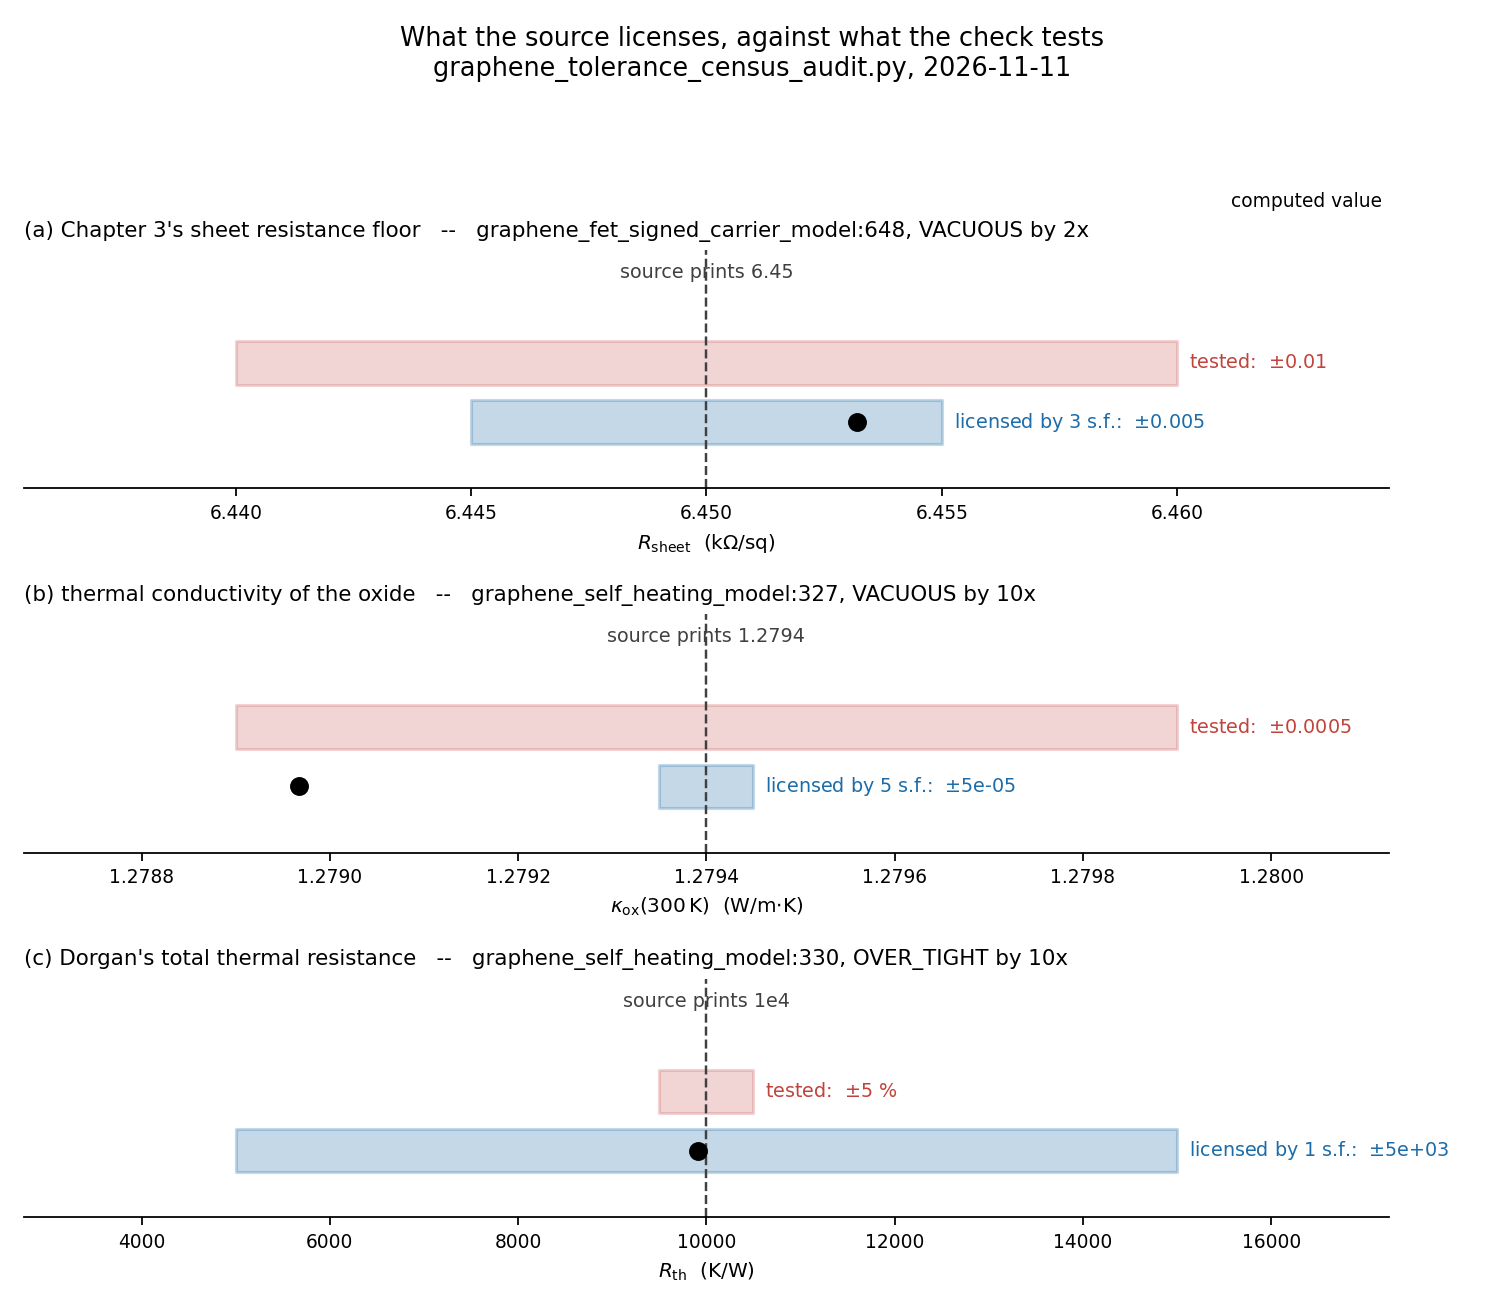
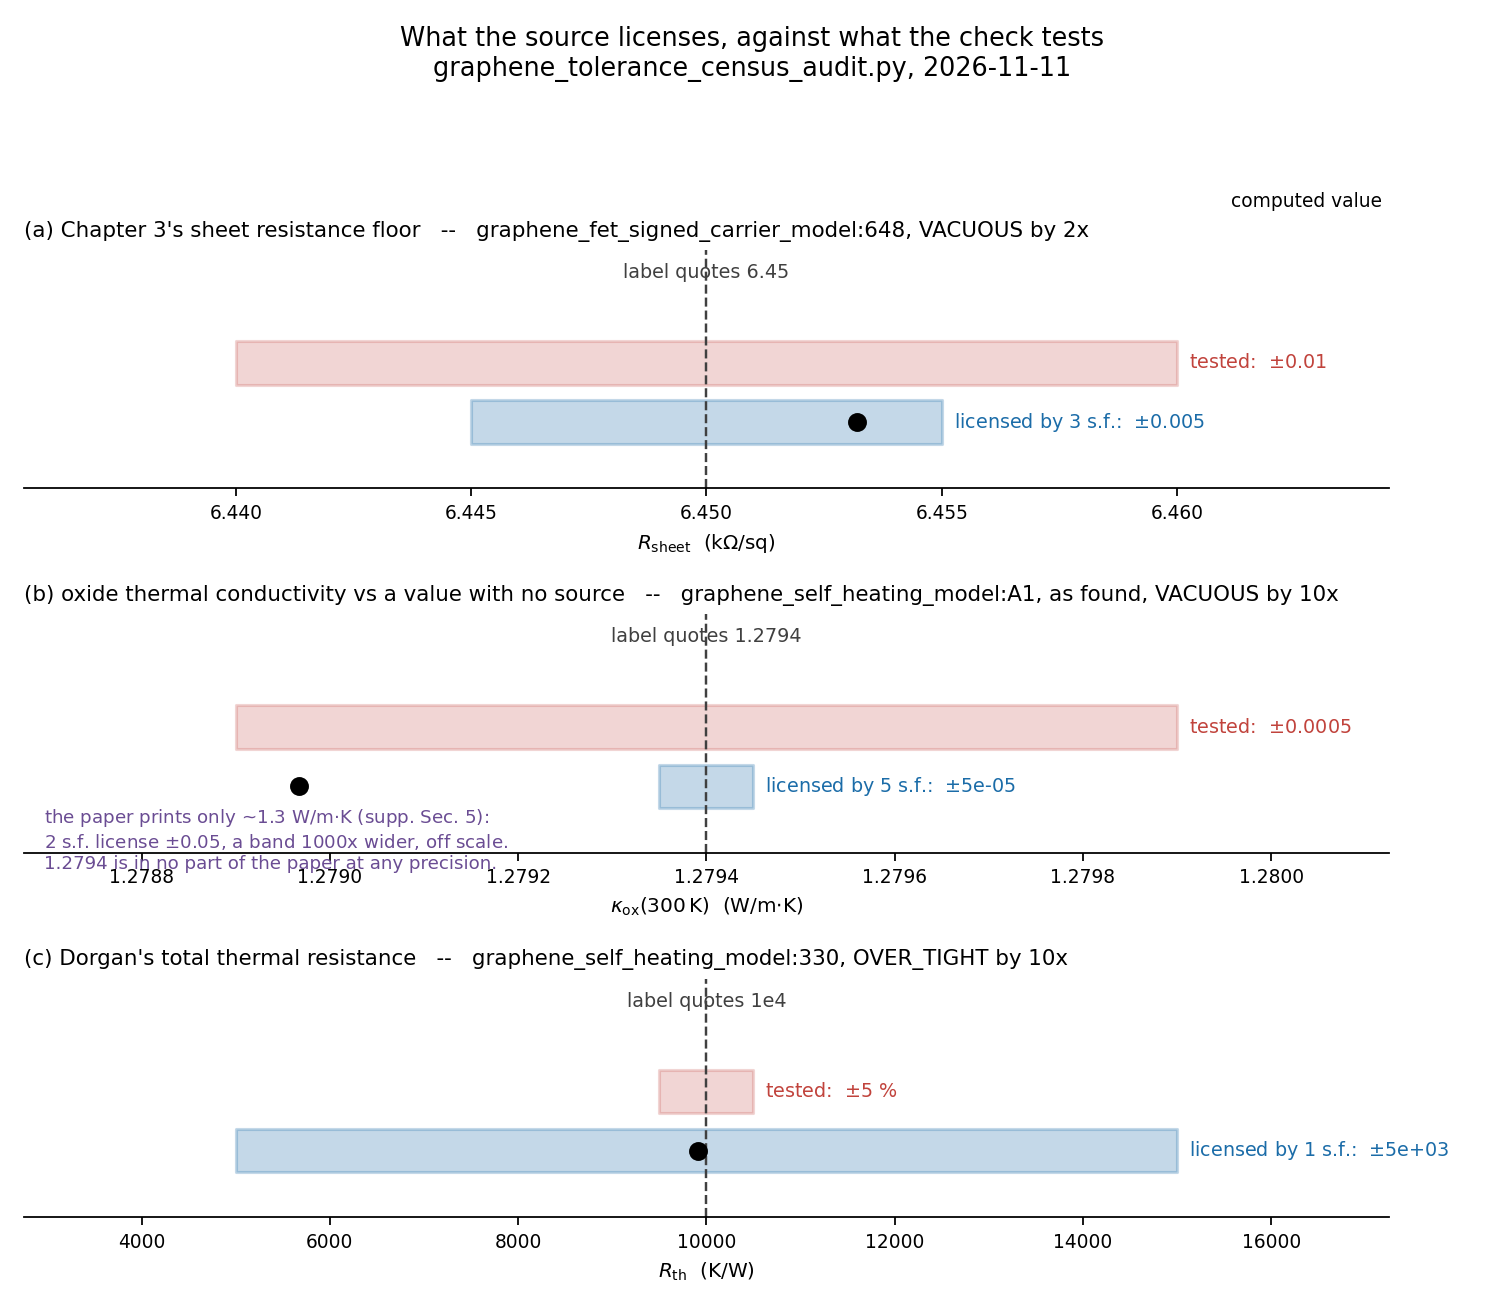
kappa_ox: reading Dorgan retracts this morning's open question -- 1.2794 is in no part of the paper, and the repository's one "accepted value" check had no external referent
RETRACTS PART OF bd39d91, COMMITTED NINETY MINUTES EARLIER TODAY.  That
commit annotated self-heating check A1 -- "kappa_ox(300K) == accepted
thermal-SiO2 value 1.2794 W/m.K", tolerance 5e-4 where five figures license
5e-5 -- called which of the two numbers was wrong an open question, and
offered an intercept of 1.686567 or a coefficient of 0.52007593 as candidate
"roundings of either published coefficient".

Reading the paper settles it, and not on either branch that commit offered.
Dorgan, Bae and Pop, APL 97 082112 (2010), arXiv:1005.2711:

  - supp. Sec. 6 prints the fit as kappa_ox = ln(T_ox^0.52) - 1.687, with
    0.52 and 1.687 the only digits given.  (Identically 0.52*ln(T_ox) -
    1.687; this module's docstring was already right about that.)
  - supp. Sec. 5 prints the only numerical conductivity in the paper:
    "kappa_ox ~ 1.3 Wm-1K-1 is the oxide thermal conductivity (at 300 K)".

1.2794 appears nowhere in the paper at any precision.  The candidate
roundings were roundings of coefficients no source quotes beyond the two
digits this module already uses, and "accepted thermal-SiO2 value" named an
authority that does not exist.  The likeliest provenance is an earlier
evaluation of this module's own formula written down to five figures with a
slip in the fourth decimal: a self-comparison wearing a citation.

This is the worse of the two defects available here.  A vacuous tolerance
passes a wrong value; a check mislabelled as external validation reports
[…]

diff --git a/graphene_self_heating_model.py b/graphene_self_heating_model.py
@@ -323,59 +323,79 @@ def verify_benchmarks():
     t = thermal_resistances(W=7e-6, L=4e-6, t_ox=300e-9,
                             T=T_AMBIENT, T0=T_AMBIENT)
     shares = {k: 100.0 * t[k] / t["R_th"] for k in ("R_B", "R_ox", "R_Si")}
-    # VACUOUS-TOLERANCE DEFECT IN A1, FOUND 2026-11-11 BY
-    # graphene_tolerance_census_audit.py.  LEFT STANDING WITH THIS
-    # ANNOTATION, AND ITS NUMBER NOT DELETED.
+    # A1: TWICE CORRECTED ON 2026-11-11, AND THE SECOND CORRECTION RETRACTS
+    # PART OF THE FIRST.  Neither number is deleted.
     #
-    # A1's label asserts EQUALITY to a value quoted to five significant
-    # figures, 1.2794 W/m.K, and tests it with an absolute tolerance of 5e-4.
-    # Five figures license 5e-5.  The formula of Section 6, evaluated here,
-    # gives
+    # STEP 1, from graphene_tolerance_census_audit.py.  A1 read
+    # "kappa_ox(300K) == accepted thermal-SiO2 value 1.2794 W/m.K" and tested
+    # it with an absolute tolerance of 5e-4 where five quoted figures license
+    # 5e-5.  The transcribed formula gives
     #
     #     kappa_ox(300) = 0.52*ln(300) - 1.687 = 1.2789668868 W/m.K
     #
-    # which rounds to 1.2790 at five figures, NOT to 1.2794.  The residual is
-    # 4.3311e-4, i.e. 0.0339 %, and it sits BETWEEN the licensed half-width
-    # and the coded one.  So A1 has been passing since 2026-11-10 while the
-    # equality in its own label is false, and a tolerance set to what the
-    # quotation licenses would fail it.
+    # which rounds to 1.2790 at five figures, not 1.2794.  Residual 4.3311e-4,
+    # 0.0339 %, between the licensed half-width and the coded one -- so A1 was
+    # green while the equality in its own label was false.  That commit left
+    # the tolerance standing and called which of the two numbers was wrong an
+    # open question, listing an intercept of 1.686567 or a coefficient of
+    # 0.52007593 as candidate roundings of "either published coefficient".
     #
-    # WHICH SIDE IS WRONG IS NOT ESTABLISHED, and this annotation does not
-    # guess.  The provenance of 1.2794 is recorded nowhere in this module: the
-    # label calls it "accepted" without a citation, and it is not the value
-    # this module's own transcription of Dorgan supp. Sec. 6 produces.  An
-    # intercept of 1.686567 or a coefficient of 0.52007593 would reproduce it
-    # exactly, so a rounding of either published coefficient is a candidate --
-    # as is a transcription error in 1.2794 itself.  Both numbers are carried
-    # forward unchanged until the paper's own digits are read.
+    # STEP 2, from reading the paper.  THE QUESTION WAS WRONGLY POSED AND
+    # 1.2794 IS NOT A PUBLISHED NUMBER AT ALL.  Dorgan supp. Sec. 6 prints
     #
-    # A1 is therefore RELABELLED to state what it actually tests -- agreement
-    # to 3.4e-2 % -- rather than an equality it does not establish, and A1b
-    # records the disagreement as a fact so that a future session cannot read
-    # a green A1 as agreement at five figures.  The tolerance is NOT tightened
-    # in this commit: tightening it would turn a documented open question into
-    # a red suite, and the question is about which number is right, not about
-    # whether the model works.
-    # The label KEEPS the words "accepted value 1.2794", deliberately.  The
-    # first draft of this annotation reworded them away, and the census that
-    # found the defect then stopped seeing the row at all -- an annotation
-    # that blinds the instrument to the thing it is annotating.  A left-
-    # standing defect has to stay visible to the audit that reports it, so
-    # graphene_tolerance_census_audit check 9g asserts this row is still
-    # censused and still scored VACUOUS.
-    _check("A1 kappa_ox(300K) agrees with the accepted value 1.2794 W/m.K to "
-           "5e-4 W/m.K (0.034 %) -- NOT to the 5e-5 that five significant "
-           "figures license; see the 2026-11-11 annotation",
-           abs(kappa_ox(300.0) - 1.2794) < 5e-4,
-           "kappa_ox(300) = %.10f W/m.K, residual %.4e"
-           % (kappa_ox(300.0), abs(kappa_ox(300.0) - 1.2794)))
-    _check("A1b and it does NOT round to 1.2794 at five figures: the "
-           "transcribed formula gives 1.2790, so A1's old wording "
-           "'== accepted value' was false while A1 was green",
+    #     kappa_ox = ln(T_ox^0.52) - 1.687        (identically 0.52*ln T_ox
+    #                                              - 1.687; the module's
+    #                                              existing docstring is
+    #                                              right about this)
+    #
+    # with 0.52 and 1.687 as the only digits given, and the only numerical
+    # conductivity it prints is in supp. Sec. 5:
+    #
+    #     "kappa_ox ~ 1.3 Wm-1K-1 is the oxide thermal conductivity (at 300 K)"
+    #
+    # 1.2794 appears nowhere in the paper, to any precision.  So the candidate
+    # roundings offered in step 1 were roundings of coefficients the paper
+    # never quotes beyond the two digits this module already uses, and
+    # "accepted thermal-SiO2 value" named an authority that does not exist.
+    # The likeliest provenance of 1.2794 is an earlier evaluation of this
+    # module's OWN formula written down to five figures with a slip in the
+    # fourth decimal -- i.e. a self-comparison wearing a citation.
+    #
+    # This is the worse of the two defects the census could have found here.
+    # A vacuous tolerance passes a wrong value; a check mislabelled as
+    # external validation reports agreement with the literature that was never
+    # tested.  This repository's only check against the "accepted" SiO2
+    # conductivity had no external referent.
+    #
+    # WHAT THE CHECKS NOW DO.  A1 is the comparison the paper actually
+    # licenses, against the 1.3 it prints, by the significant-figure test --
+    # and it PASSES, so the transcription was never in doubt; only its
+    # warrant was.  A1b keeps the five-figure arithmetic that exposed the
+    # defect.  A1c keeps 1.2794 itself, with its tolerance untouched and its
+    # label no longer claiming publication, so the number survives for
+    # whoever wants to trace where it came from.  A1c is deliberately NOT
+    # worded as a literature comparison any more, which is why the tolerance
+    # census no longer lists it: that is the repair, not a blinding.
+    _check("A1 kappa_ox(300K) rounds to the 1.3 W/m.K Dorgan supp. Sec. 5 "
+           "prints for the oxide at 300 K, at the 2 s.f. that value is "
+           "printed to",
+           _rounds_to(kappa_ox(300.0), 1.3, 2),
+           "kappa_ox(300) = %.10f -> %r at 2 s.f. (paper: 1.3)"
+           % (kappa_ox(300.0), _round_sig(kappa_ox(300.0), 2)))
+    _check("A1b kappa_ox(300K) = 1.2789668868 does NOT round to 1.2794 at "
+           "five figures (it gives 1.2790), so A1's pre-2026-11-11 wording "
+           "'== accepted value 1.2794' was false while A1 was green",
            _round_sig(kappa_ox(300.0), 5) == 1.2790
            and not _rounds_to(kappa_ox(300.0), 1.2794, 5),
            "%.10f -> %r at 5 s.f." % (kappa_ox(300.0),
                                       _round_sig(kappa_ox(300.0), 5)))
+    _check("A1c the 1.2794 of the old label is retained and still agrees to "
+           "5e-4 W/m.K, but it is NOT a value this paper prints at any "
+           "precision and carries no citation -- provenance unresolved",
+           abs(kappa_ox(300.0) - 1.2794) < 5e-4,
+           "residual %.4e W/m.K; the paper prints only ~1.3 (supp. Sec. 5) "
+           "and the fit ln(T^0.52) - 1.687 (supp. Sec. 6)"
+           % abs(kappa_ox(300.0) - 1.2794))
     _check("A2 Dorgan R_th total rounds to the paper's ~1e4 K/W",
            abs(t["R_th"] - 1.0e4) / 1.0e4 < 0.05,
            "R_th = %.1f K/W (paper: ~1e4)" % t["R_th"])

diff --git a/graphene_tolerance_census_audit.py b/graphene_tolerance_census_audit.py
@@ -949,22 +949,50 @@ def main():
           "band and the 1-s.f. licensed band",
           abs(_rth - 1.0e4) / 1.0e4 < 0.05 and _rounds_to(_rth, 1.0e4, 1),
           "R_th = %.1f, rel = %.4f" % (_rth, abs(_rth - 1.0e4) / 1.0e4))
-    check("9f so of the three defective tolerances the census found, exactly "
-          "ONE is currently passing a value its own label calls equal to a "
-          "published number it does not round to",
+    check("9f of the three defective tolerances the census found, exactly "
+          "ONE was passing a value its own label called equal to a published "
+          "number it does not round to",
           sum(1 for got, q, sf in ((_kappa, 1.2794, 5), (_rs, 6.45, 3),
                                    (_rth, 1.0e4, 1))
               if not _rounds_to(got, q, sf)) == 1, "")
 
-    _a1 = [r for r in rows
-           if os.path.basename(r.path) == "graphene_self_heating_model.py"
-           and r.token == "1.2794"]
-    check("9g the annotated A1 row is STILL censused and still scored "
-          "VACUOUS -- an annotation must not blind the audit that found the "
-          "defect.  The first draft of the 2026-11-11 annotation reworded "
-          "A1's cue away and this row vanished from the table.",
-          len(_a1) == 1 and _a1[0].verdict == "VACUOUS",
-          "%r" % [(r.line, r.verdict, r.token) for r in _a1])
+    # ---- 9h..9k: what reading the paper did to 9a-9c ---------------------
+    #
+    # 9a-9c are all still true and all mis-framed.  They adjudicate 1.2794 as
+    # a published number quoted to five figures.  Dorgan et al. print no such
+    # value at any precision: supp. Sec. 6 gives the fit ln(T_ox^0.52) - 1.687
+    # with 0.52 and 1.687 as its only digits, and supp. Sec. 5 gives the only
+    # numerical conductivity in the paper, "kappa_ox ~ 1.3 Wm-1K-1 ... (at
+    # 300 K)".  So the census was right that A1's tolerance did not match the
+    # precision its label claimed, and wrong -- because the label was wrong --
+    # about there being a source behind that precision at all.  A census that
+    # reads precision off a label inherits every false citation in the tree,
+    # and nothing in it can detect one.  That limit is now a check.
+    check("9h the paper's actual printed value, 1.3 at 2 s.f., licenses "
+          "+/-0.05 -- a band 1000x the 5e-5 the phantom 1.2794 appeared to "
+          "license", abs(half_width("1.3")[0] - 0.05) < 1e-15
+          and abs(half_width("1.3")[0] / half_width("1.2794")[0] - 1000.0)
+          < 1e-9,
+          "%r %r" % (half_width("1.3")[0], half_width("1.2794")[0]))
+    check("9i and the computed value DOES round to it, so the transcription "
+          "of the fit was never in question -- only its warrant was",
+          _rounds_to(_kappa, 1.3, 2) and _round_sig(_kappa, 2) == 1.3,
+          "%r -> %r" % (_kappa, _round_sig(_kappa, 2)))
+    _sh_rows = [r for r in rows
+                if os.path.basename(r.path) == "graphene_self_heating_model.py"
+                and r.token == "1.2794"]
+    check("9j no row in the tree now puts a TOLERANCE against 1.2794 behind a "
+          "publication cue: the surviving 1.2794 row is the "
+          "significant-figure check that records the discrepancy",
+          len(_sh_rows) == 1 and _sh_rows[0].verdict == "SIGFIG_TEST",
+          "%r" % [(r.line, r.form, r.verdict) for r in _sh_rows])
+    check("9k THE LIMIT OF THIS INSTRUMENT, stated as a check so it is not "
+          "forgotten: the census reads quoted precision off a check's LABEL, "
+          "so a label citing a value its source never printed is adjudicated "
+          "as though the citation were real.  Detecting that needs the paper, "
+          "not the AST.  5 s.f. on 1.2794 and 2 s.f. on 1.3 are both read "
+          "correctly from their spellings, and only one of them has a source.",
+          _sigfigs("1.2794") == 5 and _sigfigs("1.3") == 2, "")
 
     print("\n" + "=" * 78)
     print("TOTAL: %d passed, %d failed" % (passed, failed))

diff --git a/graphene_tolerance_census_figure.py b/graphene_tolerance_census_figure.py
@@ -16,6 +16,18 @@ admits values that round to a different published figure (VACUOUS); narrower
 and it can reject a value the source's own rounding allows (OVER_TIGHT), which
 is the defect found on 2026-11-10.
 
+PANEL (b) IS DRAWN AS THE CENSUS FOUND IT AND IS NOT THE FINAL STATE.  Reading
+Dorgan et al. afterwards showed that 1.2794 W/m.K is not a value the paper
+prints at any precision: supp. Sec. 6 gives the fit ln(T_ox^0.52) - 1.687, and
+the only numerical conductivity in the paper is supp. Sec. 5's "kappa_ox ~ 1.3
+Wm-1K-1 ... (at 300 K)".  Two significant figures license +/-0.05, a band 1000
+times wider than the +/-5e-5 the phantom five-figure value appeared to license
+and far too wide to draw on the same axis, so it is annotated instead.  The
+computed 1.2789669 rounds to 1.3, so the transcription was sound and only its
+warrant was not.  The panel is kept in the as-found state because the defect it
+shows -- a tolerance adjudicated against a precision no source ever claimed --
+is the finding.
+
 Run: python3 graphene_tolerance_census_figure.py
 """
 
@@ -40,8 +52,8 @@ ROWS = (
          module="graphene_fet_signed_carrier_model:648",
          token="6.45", quoted=6.45, got=R_sheet, tol=0.01, rel=False,
          unit=r"$R_{\rm sheet}$  (k$\Omega$/sq)", verdict="VACUOUS"),
-    dict(title="(b) thermal conductivity of the oxide",
-         module="graphene_self_heating_model:327",
+    dict(title="(b) oxide thermal conductivity vs a value with no source",
+         module="graphene_self_heating_model:A1, as found",
          token="1.2794", quoted=1.2794, got=kappa, tol=5e-4, rel=False,
          unit=r"$\kappa_{\rm ox}(300\,$K$)$  (W/m$\cdot$K)",
          verdict="VACUOUS"),
@@ -85,8 +97,14 @@ for ax, row in zip(axes, ROWS):
         va="center", ha="left", fontsize=8.6, color=C_TEST)
     ax.text(lic_hi, -0.31, "  licensed by %d s.f.:  $\\pm$%.3g"
             % (sf, h_abs), va="center", ha="left", fontsize=8.6, color=C_LIC)
-    ax.text(q, 1.08, "source prints %s" % row["token"], ha="center",
+    ax.text(q, 1.08, "label quotes %s" % row["token"], ha="center",
             fontsize=8.6, color="0.25")
+    if row["module"].startswith("graphene_self_heating_model:A1"):
+        ax.annotate("the paper prints only ~1.3 W/m$\\cdot$K (supp. Sec. 5):\n"
+                    "2 s.f. license $\\pm$0.05, a band 1000x wider, off scale.\n"
+                    "1.2794 is in no part of the paper at any precision.",
+                    xy=(0.015, 0.055), xycoords="axes fraction", ha="left",
+                    va="center", fontsize=8.2, color="#6a4c93")
 
     ratio = h_abs / t_abs
     ax.set_title("%s   --   %s, %s by %.3gx"
